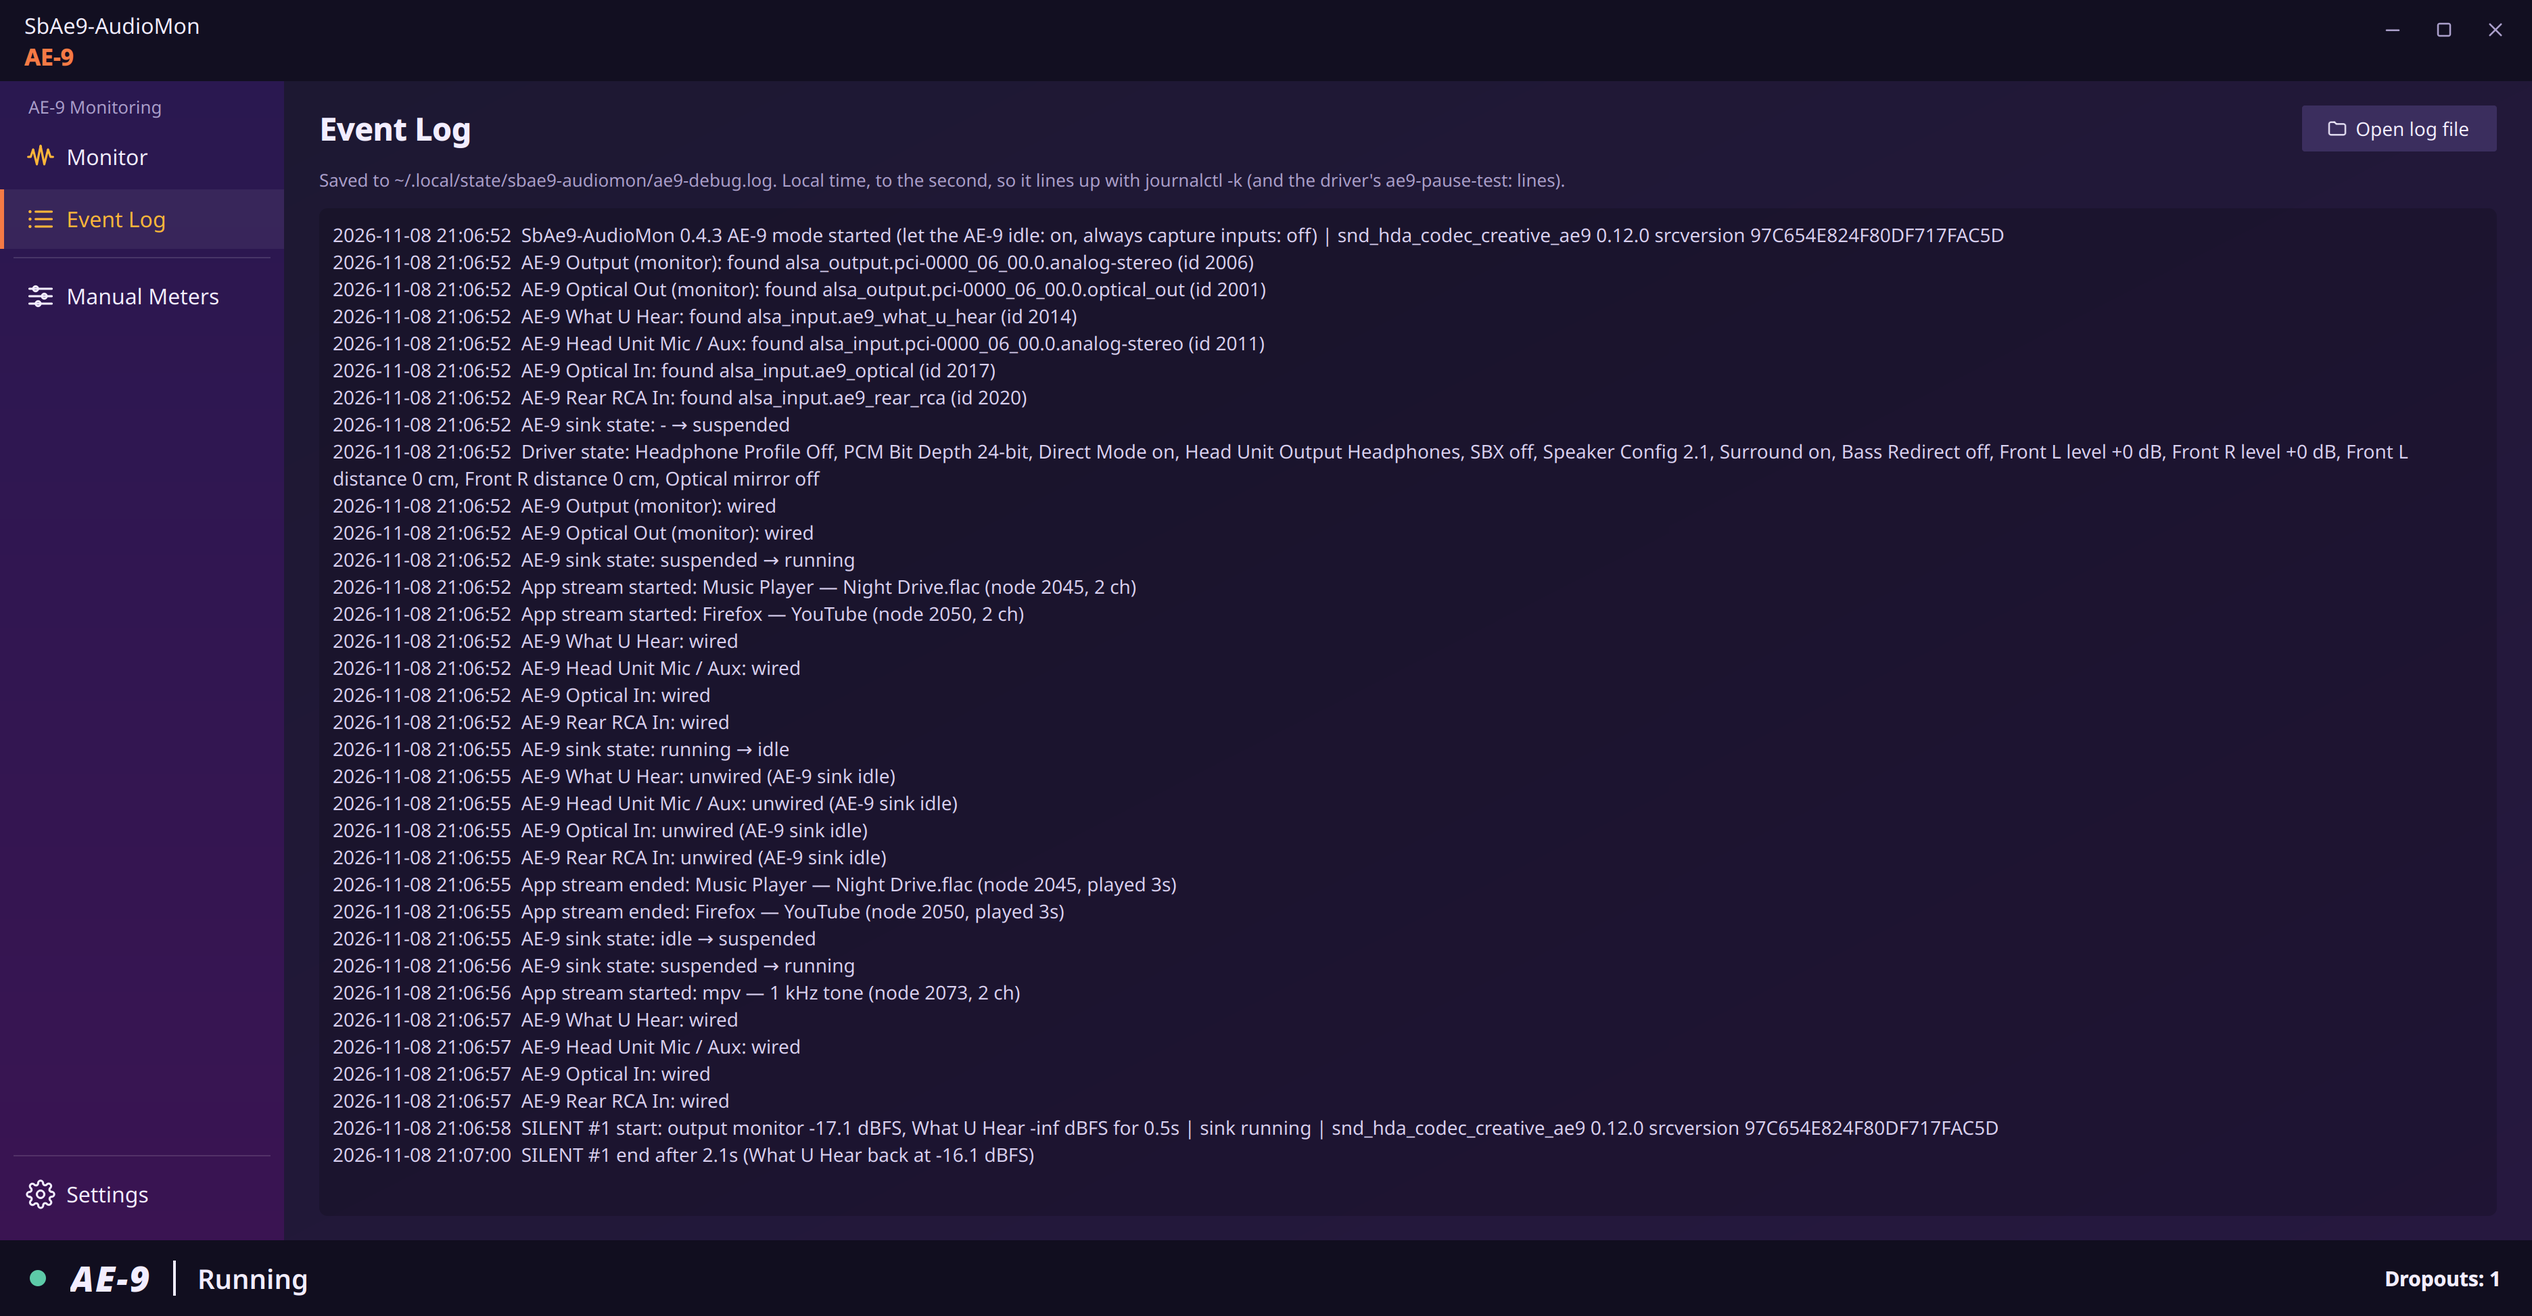
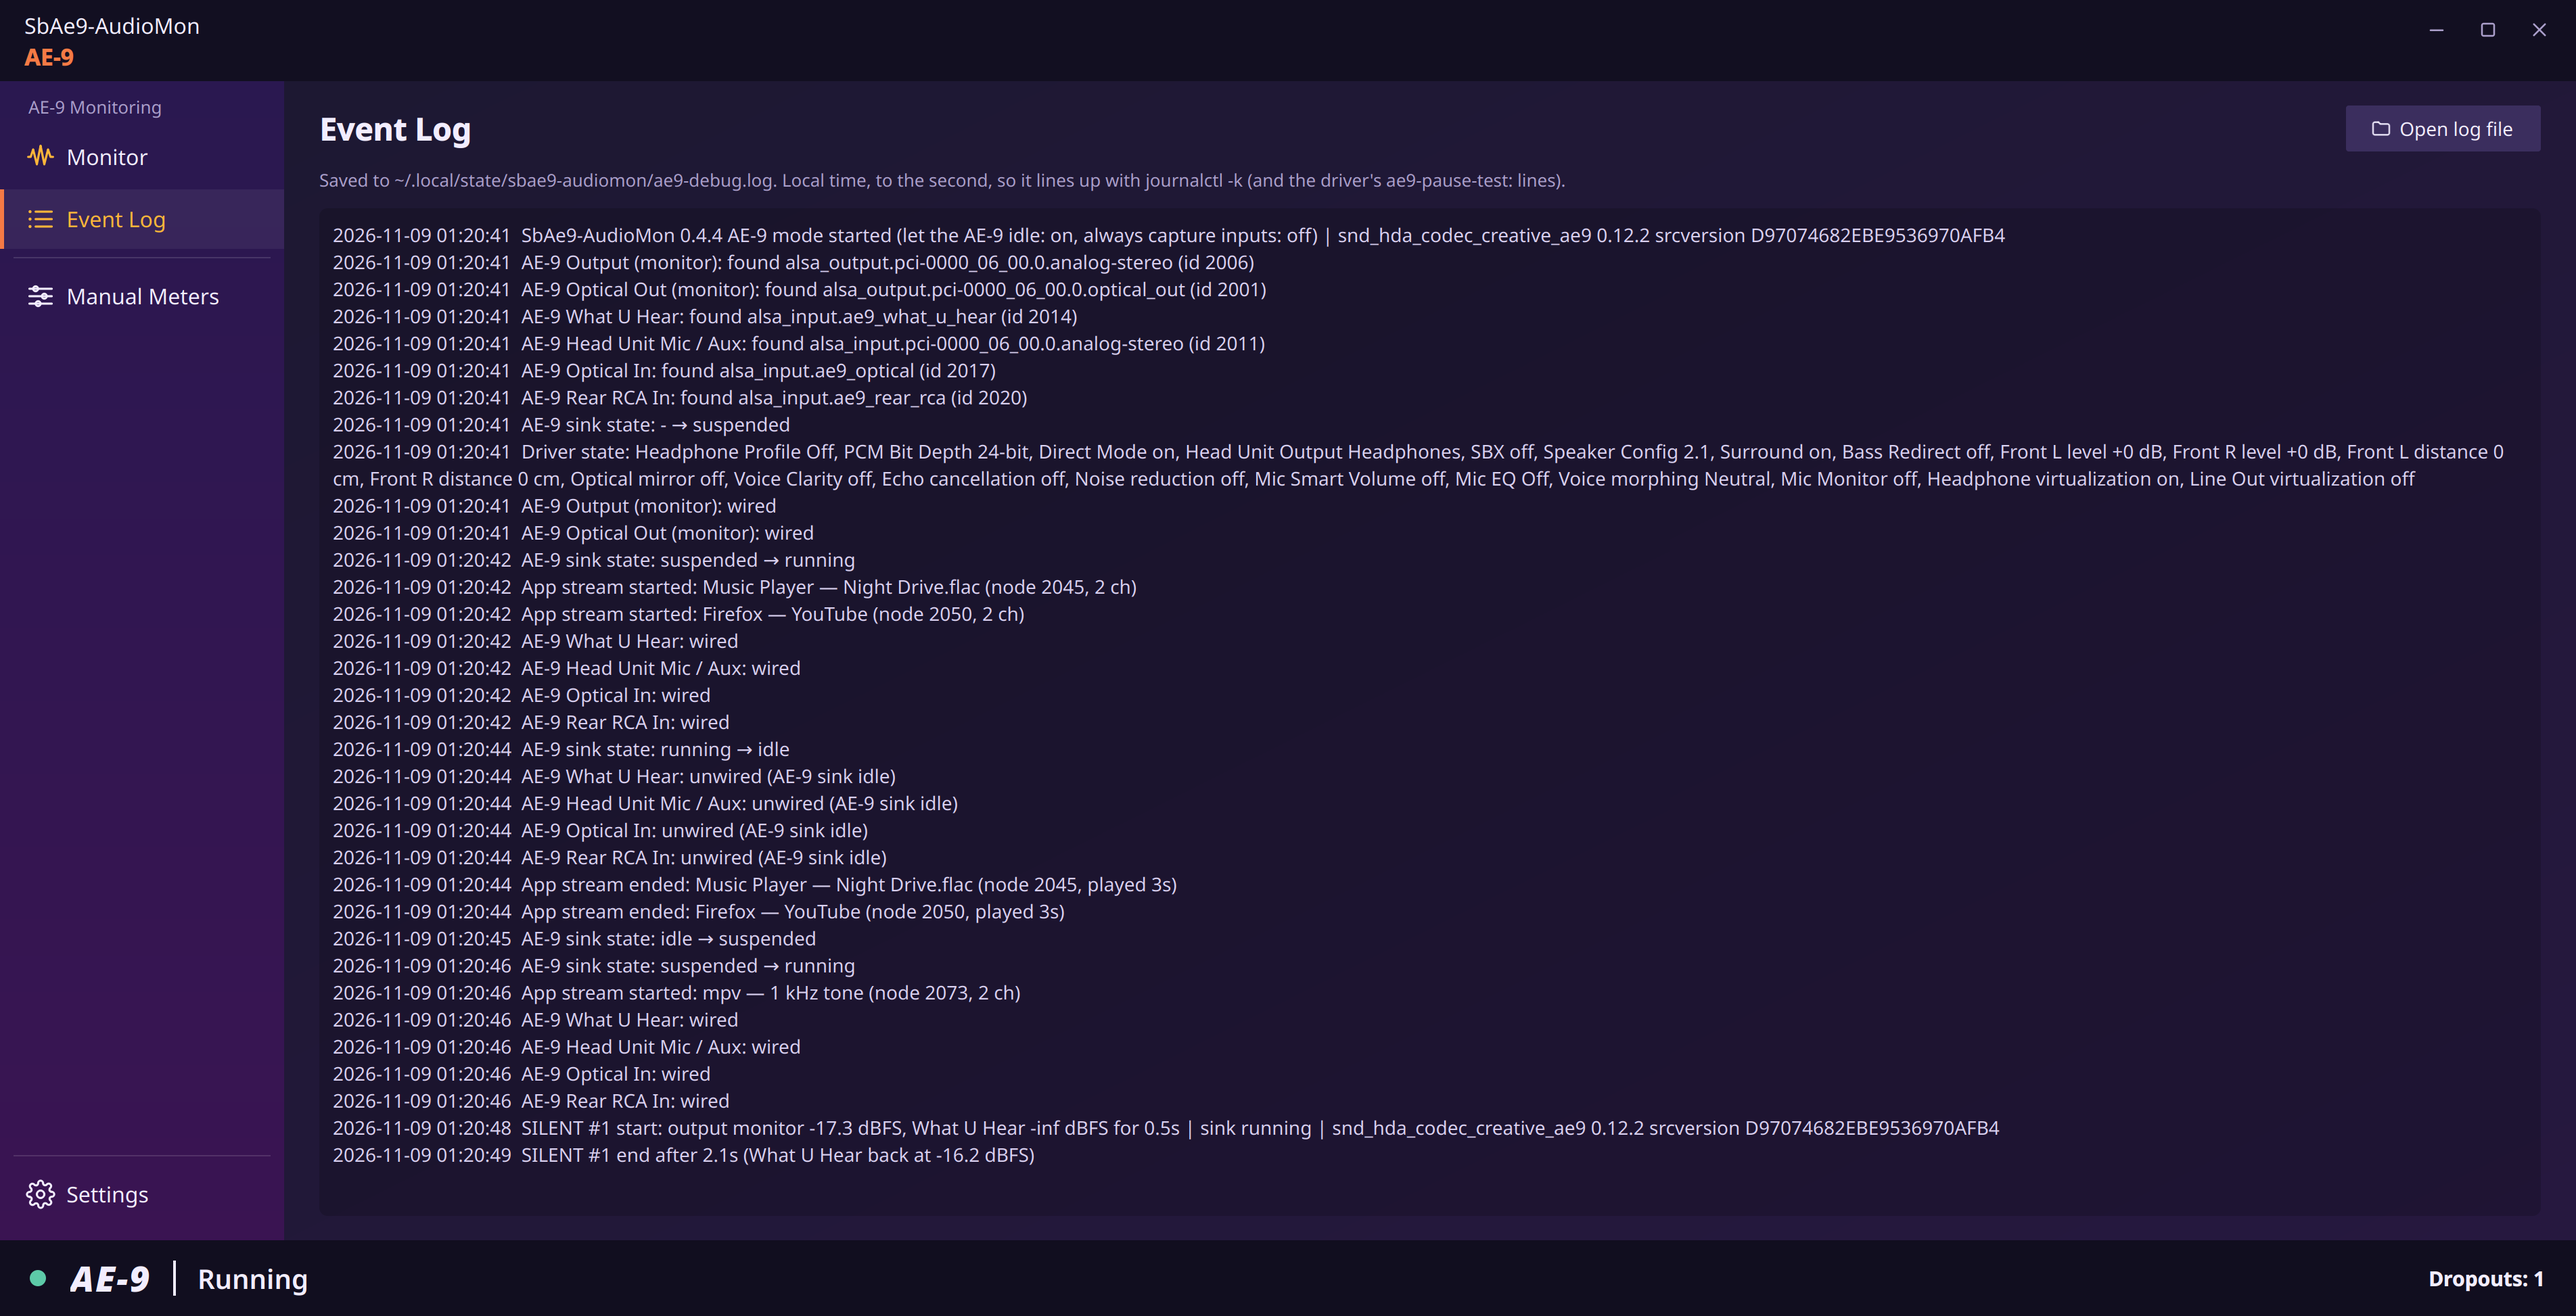
Screenshots for 0.4.4: driver 0.12.2, output jack on the Output card
Claude-Session: https://claude.ai/code/session_01WuMr9M5KfHbSyFvmuWxdiG

diff --git a/tools/screenshots.py b/tools/screenshots.py
@@ -33,7 +33,7 @@ import support  # noqa: E402
 W, H = 1320, 860                  # logical size; the PNGs are 2x
 SHOWN_LOG = "~/.local/state/sbae9-audiomon/ae9-debug.log"
 SHOWN_CONFIG = "~/.config/sbae9-audiomon/config.json"
-SHOWN_DRIVER = "snd_hda_codec_creative_ae9 0.12.0 srcversion 97C654E824F80DF717FAC5D"
+SHOWN_DRIVER = "snd_hda_codec_creative_ae9 0.12.2 srcversion D97074682EBE9536970AFB4"
 
 
 def main():
